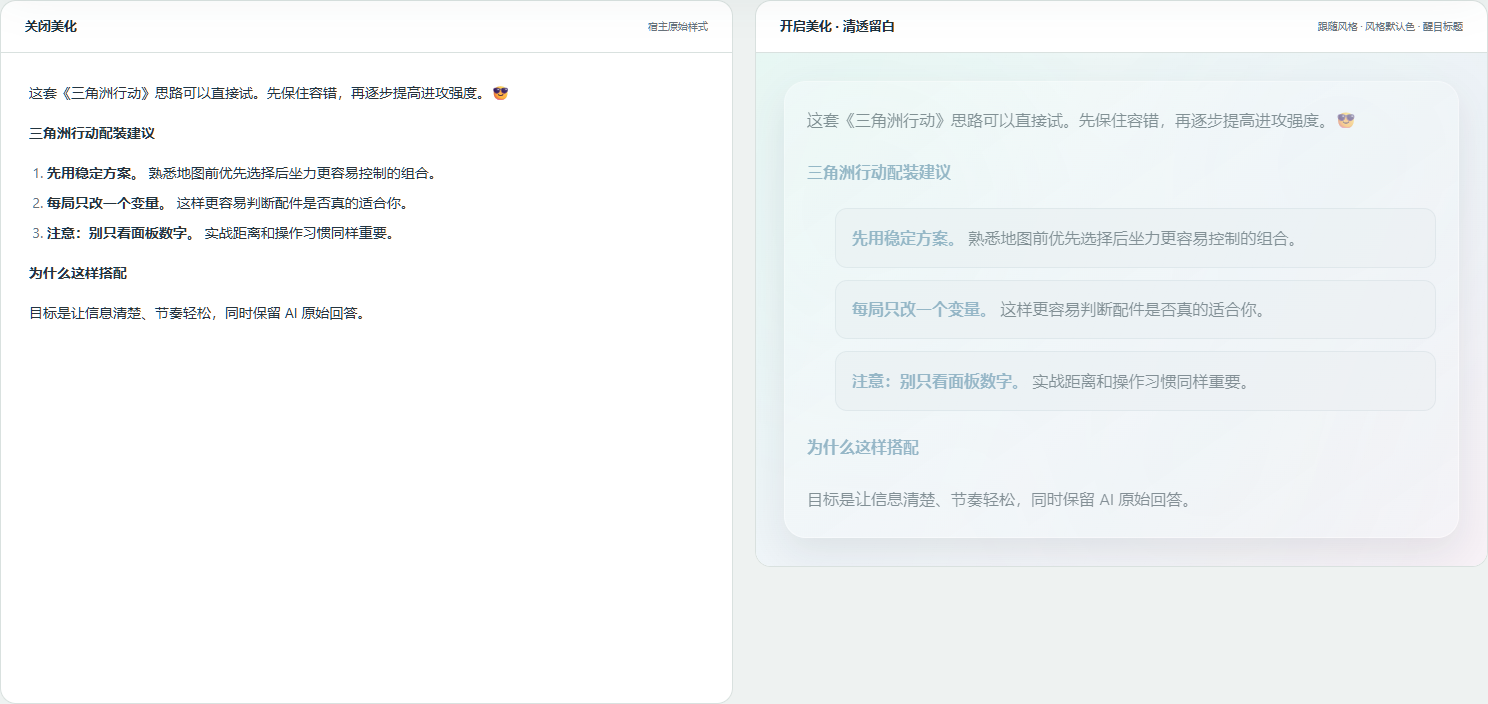
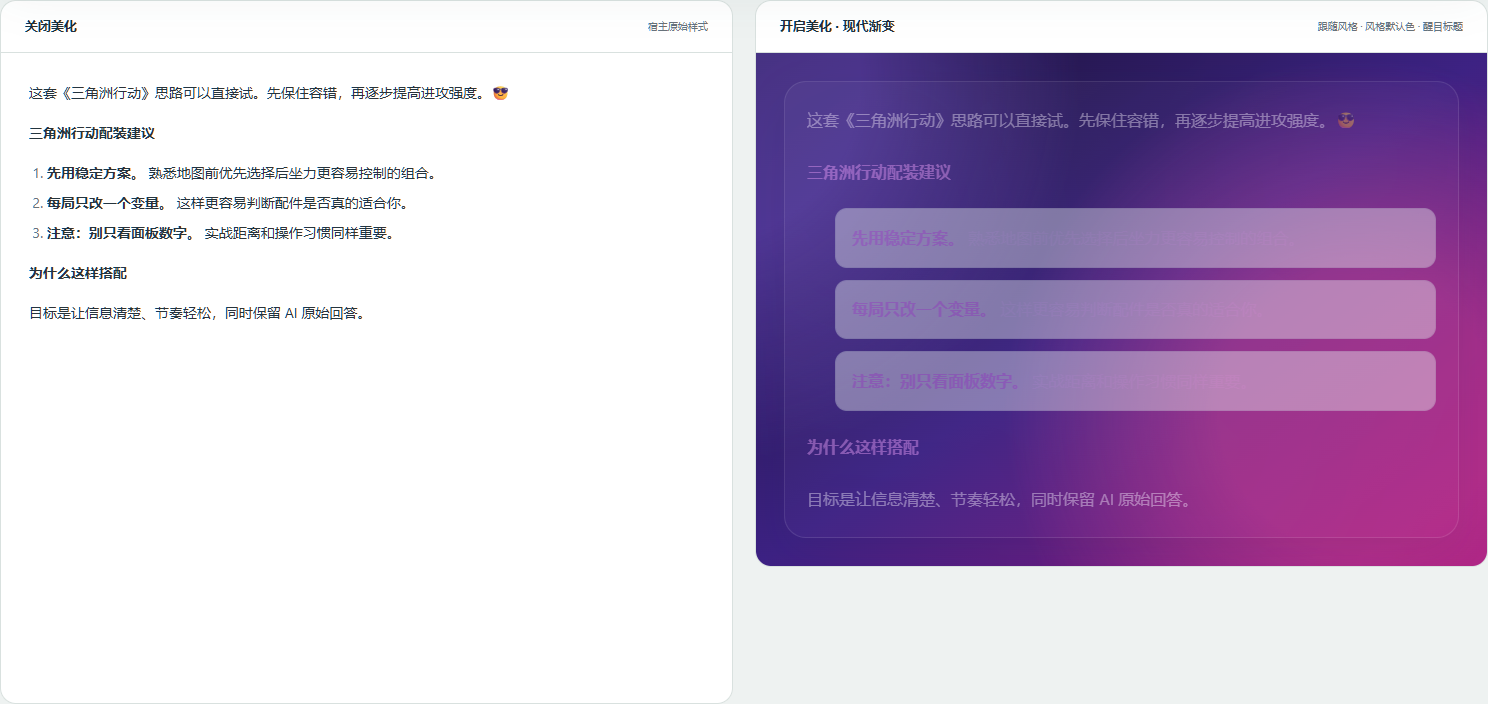
docs: strengthen visual comparison and retitle page

diff --git a/README.md b/README.md
@@ -2,9 +2,9 @@
   <img src="assets/echocat-logo.png" width="132" alt="EchoCat LOGO">
 </p>
 
-<h1 align="center">EchoCat Prettier</h1>
+<h1 align="center">DSH 聊天内容 排版</h1>
 
-<p align="center"><b>让 DSH 的 AI 回复拥有清楚的层级、丰富的视觉风格和自然的互动感。</b></p>
+<p align="center"><b>EchoCat Prettier · 让 AI 回复拥有清楚的层级、丰富的视觉风格和自然的互动感。</b></p>
 
 <p align="center">
   <a href="https://github.com/VDERR/dsh-echocat-prettier/releases/latest"><img alt="GitHub Release" src="https://img.shields.io/github/v/release/VDERR/dsh-echocat-prettier?style=flat-square&color=4a91a3"></a>
@@ -24,7 +24,7 @@
 
 下面两栏使用的是同一段 AI 原始回答。插件只重组浏览器里的显示层级，不改回答文字、顺序和结论。
 
-![关闭美化与清透留白默认风格对比](docs/images/echocat-prettier-before-after-v2.3.4.png)
+![关闭美化与现代渐变风格对比](docs/images/echocat-prettier-before-after-v2.3.4.png)
 
 <details>
   <summary><b>展开查看：开发者终端风格</b></summary>
